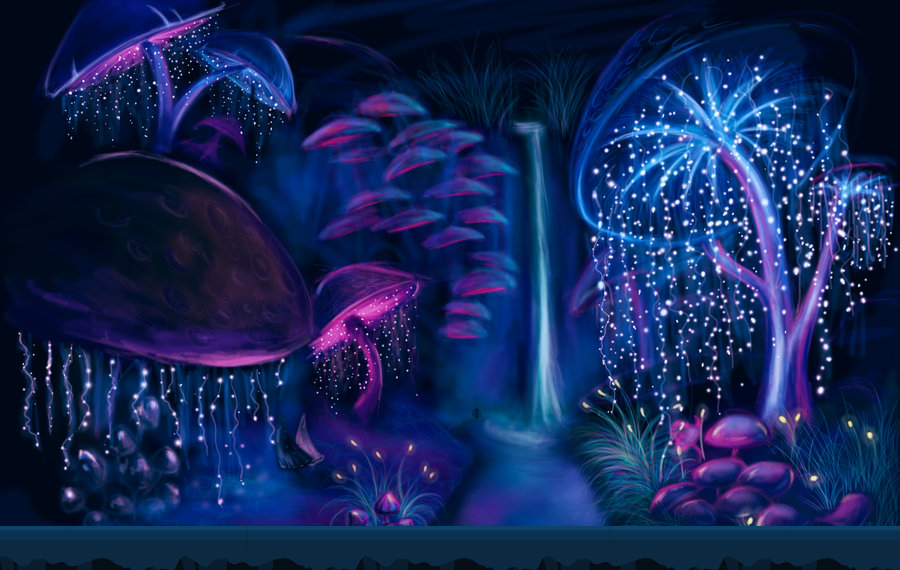
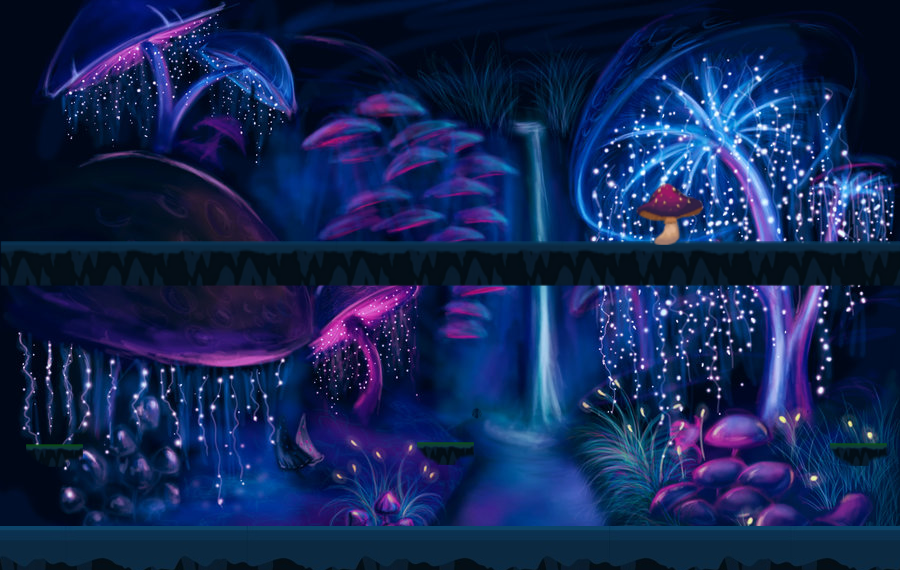
acabada fase 1 y boss completo

diff --git a/Juego/src/personajes.py b/Juego/src/personajes.py
@@ -1,6 +1,6 @@
 # -*- coding: utf-8 -*-
 
-import pygame, sys, os
+import pygame, sys, time, os
 from pygame.locals import *
 from escena import *
 from gestorRecursos import *
@@ -55,6 +55,8 @@ VELOCIDAD_ENEMIGO = 0.15 # Pixeles por milisegundo
 VELOCIDAD_SALTO_ENEMIGO = 0.28 # Pixeles por milisegundo
 RETARDO_ANIMACION_ENEMIGO = 5 # updates que durará cada imagen del personaje
                              # debería de ser un valor distinto para cada postura
+                             
+VELOCIDAD_FASE1BOSS= 0.09
 
 VELOCIDAD_FASE5BOSSLOBO = 0.07 # Pixeles por milisegundo
 VELOCIDAD_SALTO_FASE5BOSSLOBO = 0.4 # Pixeles por milisegundo
@@ -396,6 +398,34 @@ class Palanca(Objeto):
         self.rect.bottom = posy - scrolly;
         for x in self.activeObstacules:
             x.establecerPosicionPantalla(scrollDecorado)
+            
+            
+class VenomLauncher(Objeto):
+    def __init__(self,action):
+        Objeto.__init__(self,None)
+        self.activar = False
+        self.activeObstacules = []
+        if action:
+            self.obsPos = [(100,500),(200,500), (300,500), (400,500), (500,500),(600,500),(700,500),(800,500),(900,500),]
+            for i in range(9):
+                val = Veneno(1)
+                val.visible=False
+                val.establecerPosicion((self.obsPos[i][0],self.obsPos[i][1]))
+                self.activeObstacules.append(val)
+                
+    def update(self,tiempo):
+        if self.activar:
+            for x in self.activeObstacules:
+                x.visible = True
+        else:
+            for x in self.activeObstacules:
+                x.visible = False
+        for x in self.activeObstacules:
+            x.update(tiempo)
+
+    def dibujar(self,pantalla):
+        for x in self.activeObstacules:
+            x.dibujar(pantalla)
 
 
 # -------------------------------------------------
@@ -712,7 +742,7 @@ class Jugador(Personaje):
 
     def mover(self, teclasPulsadas, arriba, abajo, izquierda, derecha, atacar):
 
-        if self.rect.left>0 and self.rect.right<ANCHO_PANTALLA and self.rect.bottom>0 and self.rect.top<ALTO_PANTALLA:
+        if self.rect.left>0 and self.rect.right<ANCHO_PANTALLA and self.rect.top<ALTO_PANTALLA:
 
             # Indicamos la acción a realizar segun la tecla pulsada para el jugador
             if teclasPulsadas[arriba]:
@@ -989,63 +1019,90 @@ class Fase1Boss(NoJugador):
 
     def __init__(self):
         # Invocamos al constructor de la clase padre con la configuracion de este personaje concreto
-        NoJugador.__init__(self,'fase1Boss.png','coordFase1Boss.txt', [1, 3, 6, 10, 1, 6], VELOCIDAD_ENEMIGO, VELOCIDAD_SALTO_ENEMIGO, 5,1500,int(VIDA_JUGADOR/4),INVULNERABLE_ENEMIGO,80,False,None,None);
+        NoJugador.__init__(self,'fase1Boss.png','coordFase1Boss.txt', [5, 4, 5, 8, 5, 5], VELOCIDAD_FASE1BOSS, VELOCIDAD_SALTO_ENEMIGO, 5,1000,int(VIDA_JUGADOR/8),INVULNERABLE_ENEMIGO,30,False,None,None);
         self.mirando = IZQUIERDA
-        self.parar = False
-        self.derecha = False
-        self.izquierda = True
-        self.derecha1 = False
-        self.izquierda1 = True
-        self.cerca = False
-        self.lejos = True
+        self.vidaIni=self.vida
         self.atacando=False
-        self.cerca2=False
+        self.teleport=False
+        self.parar=False
+        self.fase1=False
+        self.fase2=False
+        self.arriba=False
+        self.bajar=False
+        self.time1=0
+        self.time2=0
+        self.timeVen=0
+
 
     def mover_cpu(self, jugador1):
         #Restamos iFrames
         if self.currentIFrames > 0:
             self.currentIFrames -= 1
 
-        # Movemos solo a los enemigos que esten en la pantalla
+       # Movemos solo a los enemigos que esten en la pantalla
         if self.rect.left>0 and self.rect.right<ANCHO_PANTALLA and self.rect.bottom>0 and self.rect.top<ALTO_PANTALLA:
-        
-            if abs(self.posicion[0]-jugador1.posicion[0])<=120 and abs(self.posicion[0]-jugador1.posicion[0])>=90 :
-                self.atacando= False
-                self.cerca2 = True
-                self.cerca = False
-                self.lejos = False
-        
-            if (abs(self.posicion[0]-jugador1.posicion[0])<=90):
-                self.atacando= False
-                self.cerca = True
-                self.cerca2 = False
-                self.lejos = False
-                self.teleport = True
 
-            if abs(self.posicion[0]-jugador1.posicion[0])>=125:
-                self.atacando = True
-                self.cerca = False
-                self.cerca2 = False
-                self.lejos = True
-                self.teleport= False
-
-                
-                
-            if self.cerca2 == True and self.cerca==False:
-               Personaje.mover(self,ARRIBA)
-
+            # Por ejemplo, intentara acercarse al jugador mas cercano en el eje x
+            # Miramos cual es el jugador mas cercano
             
-            elif self.cerca == True:
-                if self.posicion[0]>=jugador1.posicion[0]:
-                    self.establecerPosicion((250,550))
-                    
-                elif self.posicion[0]<=jugador1.posicion[0]:
-                    self.establecerPosicion((750,550))
-                    
-            elif self.cerca==False and self.atacando:
-                Personaje.mover(self,ATACAR)
+            
+            if self.arriba==True:
+                if (self.posicion[0]<700):
+                    Personaje.mover(self,DERECHA)
+                else:
+                    Personaje.mover(self,QUIETO)
+                    timeVen=(pygame.time.get_ticks()-self.timeVen)#calculate how many seconds
+                    if timeVen>=8000:
+                        self.arriba=False
+                        self.bajar=True
+                        self.time2=pygame.time.get_ticks()
+            elif self.bajar==True:
+                if (self.posicion[0]>450):
+                    Personaje.mover(self,IZQUIERDA)
+                else:
+                    Personaje.mover(self,QUIETO)
+                    timetp2=(pygame.time.get_ticks()-self.time2)#calculate how many seconds
+                    if timetp2>=3000:
+                        self.fase2=True
+                        self.bajar=False
+                        self.establecerPosicion((500,550))
+            
             else:
-                Personaje.mover(self,QUIETO)
+                if (self.fase1==False and self.fase2==False and (self.vida <= (self.vidaIni/2))):
+                    self.fase1=True
+                    self.time1=pygame.time.get_ticks() #starter tick
+                    
+                elif self.fase1==True:
+                    Personaje.mover(self,QUIETO)
+                    timetp=(pygame.time.get_ticks()-self.time1)#calculate how many seconds
+                    if timetp>=600:
+                        self.establecerPosicion((450,250))
+                        self.timeVen=pygame.time.get_ticks()
+                        self.arriba=True
+                        self.fase1=False
+                else:
+                    # Cuando este cerca atacara
+                    collide = pygame.sprite.groupcollide(pygame.sprite.Group(jugador1),pygame.sprite.Group(self), False, False)
+                    #collide contine los sprites del primer grupo con los que ha colisionado
+                
+                
+                    if (collide!={}):
+                        self.atacando = True
+                        Personaje.mover(self,ATACAR)
+                    else:             
+                        if ((jugador1.posicion[1]<self.posicion[1]) and abs(self.posicion[0]-jugador1.posicion[0])<=40):
+                            Personaje.mover(self,ARRIBA)
+                        elif ((jugador1.posicion[0]<self.posicion[0]+40) and (jugador1.posicion[1]>=self.posicion[1])):
+                            Personaje.mover(self, IZQUIERDA)
+                            self.atacando = False               
+                        elif ((jugador1.posicion[0]>self.posicion[0]-40) and (jugador1.posicion[1]>=self.posicion[1])):
+                            Personaje.mover(self, DERECHA)
+                            self.atacando = False  
+                        
+        # Si este personaje no esta en pantalla, no hara nada
+        else:
+            Personaje.mover(self,QUIETO)
+
             
 
 # -------------------------------------------------

diff --git a/Juego/src/fase.py b/Juego/src/fase.py
@@ -275,6 +275,20 @@ class Fase(Escena):
                     sprite.activar = True
                     for x in sprite.activeObstacules:
                         self.obstaculos.add(x)
+                        
+        #Objetos Enemigos
+        collide1 = pygame.sprite.groupcollide(self.objetos, self.grupoEnemigos, False, False)
+        collide2= pygame.sprite.groupcollide(self.grupoEnemigos,self.objetos, False, False)
+        #collide contine los sprites del primer grupo con los que ha colisionado
+        if collide1!={}:
+            for sprite in collide1:
+                for sprite2 in collide2:
+                    if sprite2.movimiento==QUIETO:
+                        sprite.activar = True
+                    elif sprite2.movimiento ==IZQUIERDA:
+                        sprite.activar=False
+                for x in sprite.activeObstacules:
+                    self.obstaculos.add(x)       
 
         #Pociones
         collidePociones = pygame.sprite.groupcollide(self.grupoPociones, self.grupoJugadores, False, False)
@@ -382,7 +396,7 @@ class Fase(Escena):
         #Cambiar a escena
         if (self.jugador1.posicion[0]>self.max_distance) and not (self.isBoss):
             if self.numeroFase == 1:
-                fase = Fase(self.director,self.jugador1,1,1000,getValues(TEXT,'FASE1BOSS_FONDO='),getValues(TEXT,'FASE1BOSS_FONDO_SCALE='),getValues(TEXT,'FASE1BOSS_CIELO='),getValues(TEXT,'FASE1BOSS_CIELO_SCALE='),getValues(TEXT,'FASE1BOSS_POS_JUGADOR='),getValues(TEXT,'FASE1BOSS_ENEMIGOS='),getValues(TEXT,'FASE1BOSS_ENEMIGOS_POS='),getValues(TEXT,'FASE1BOSS_PLATAFORMAS='),None,None,None,None,None, None,None,None,None,None,True)
+                fase = Fase(self.director,self.jugador1,1,1000,getValues(TEXT,'FASE1BOSS_FONDO='),getValues(TEXT,'FASE1BOSS_FONDO_SCALE='),getValues(TEXT,'FASE1BOSS_CIELO='),getValues(TEXT,'FASE1BOSS_CIELO_SCALE='),getValues(TEXT,'FASE1BOSS_POS_JUGADOR='),getValues(TEXT,'FASE1BOSS_ENEMIGOS='),getValues(TEXT,'FASE1BOSS_ENEMIGOS_POS='),getValues(TEXT,'FASE1BOSS_PLATAFORMAS='),None,None,None,None,None, None,None,getValues(TEXT,'FASE1BOSS_OBJETOS='),getValues(TEXT,'FASE1BOSS_OBJETOS_POS='),getValues(TEXT,'FASE1BOSS_OBJETOS_ACTION='),True)
                 self.director.cambiarEscena(fase)
             elif self.numeroFase == 2:
                 fase = Fase(self.director,self.jugador1, 2, 5000, getValues(TEXT,'FASE2BOSS_FONDO='),getValues(TEXT,'FASE2BOSS_FONDO_SCALE='),getValues(TEXT,'FASE2BOSS_CIELO='),getValues(TEXT,'FASE2BOSS_CIELO_SCALE='),getValues(TEXT,'FASE2BOSS_POS_JUGADOR='),getValues(TEXT,'FASE2BOSS_ENEMIGOS='),getValues(TEXT,'FASE2BOSS_ENEMIGOS_POS='),getValues(TEXT,'FASE2BOSS_PLATAFORMAS='),None,None,None,None,None,None,None,getValues(TEXT,'FASE2BOSS_OBJETOS='),getValues(TEXT,'FASE2BOSS_OBJETOS_POS='),getValues(TEXT,'FASE2BOSS_OBJETOS_ACTION='), True)

diff --git a/Juego/src/menu.py b/Juego/src/menu.py
@@ -390,10 +390,10 @@ class Menu(Escena):
         self.director.apilarEscena(fase)
 		
     def ejecutarFase1(self):
-        #fase = Fase(self.director,self.jugador,1,1000,getValues(TEXT,'FASE1BOSS_FONDO='),getValues(TEXT,'FASE1BOSS_FONDO_SCALE='),getValues(TEXT,'FASE1BOSS_CIELO='),getValues(TEXT,'FASE1BOSS_CIELO_SCALE='),getValues(TEXT,'FASE1BOSS_POS_JUGADOR='),getValues(TEXT,'FASE1BOSS_ENEMIGOS='),getValues(TEXT,'FASE1BOSS_ENEMIGOS_POS='),getValues(TEXT,'FASE1BOSS_PLATAFORMAS='),None,None,None,None,None, None,None,None,None,None,True)
+        #fase = Fase(self.director,self.jugador,1,1000,getValues(TEXT,'FASE1BOSS_FONDO='),getValues(TEXT,'FASE1BOSS_FONDO_SCALE='),getValues(TEXT,'FASE1BOSS_CIELO='),getValues(TEXT,'FASE1BOSS_CIELO_SCALE='),getValues(TEXT,'FASE1BOSS_POS_JUGADOR='),getValues(TEXT,'FASE1BOSS_ENEMIGOS='),getValues(TEXT,'FASE1BOSS_ENEMIGOS_POS='),getValues(TEXT,'FASE1BOSS_PLATAFORMAS='),None,None,None,None,None, None,None,getValues(TEXT,'FASE1BOSS_OBJETOS='),getValues(TEXT,'FASE1BOSS_OBJETOS_POS='),getValues(TEXT,'FASE1BOSS_OBJETOS_ACTION='),True)
         #self.director.apilarEscena(fase)
 
-        fase = Fase(self.director,self.jugador,1,4800,getValues(TEXT,'FASE1_FONDO='),getValues(TEXT,'FASE1_FONDO_SCALE='),getValues(TEXT,'FASE1_CIELO='),getValues(TEXT,'FASE1_CIELO_SCALE='),getValues(TEXT,'FASE1_POS_JUGADOR='),getValues(TEXT,'FASE1_ENEMIGOS='),getValues(TEXT,'FASE1_ENEMIGOS_POS='),getValues(TEXT,'FASE1_PLATAFORMAS='),None,None,getValues(TEXT,'FASE1_POCIONES='),getValues(TEXT,'FASE1_POS_POCIONES='),getValues(TEXT,'FASE1_OBSTACULOS='),getValues(TEXT,'FASE1_OBSTACULOS_POS='),getValues(TEXT,'FASE1_ACELERACION='),None,None,None,False)
+        fase = Fase(self.director,self.jugador, 1,4800, getValues(TEXT,'FASE1_FONDO='),getValues(TEXT,'FASE1_FONDO_SCALE='),getValues(TEXT,'FASE1_CIELO='),getValues(TEXT,'FASE1_CIELO_SCALE='),getValues(TEXT,'FASE1_POS_JUGADOR='),getValues(TEXT,'FASE1_ENEMIGOS='),getValues(TEXT,'FASE1_ENEMIGOS_POS='),getValues(TEXT,'FASE1_PLATAFORMAS='),None,None,getValues(TEXT,'FASE1_POCIONES='),getValues(TEXT,'FASE1_POS_POCIONES='),getValues(TEXT,'FASE1_OBSTACULOS='),getValues(TEXT,'FASE1_OBSTACULOS_POS='),getValues(TEXT,'FASE1_ACELERACION='),None,None,None,False)
         self.director.apilarEscena(fase)
         
         
